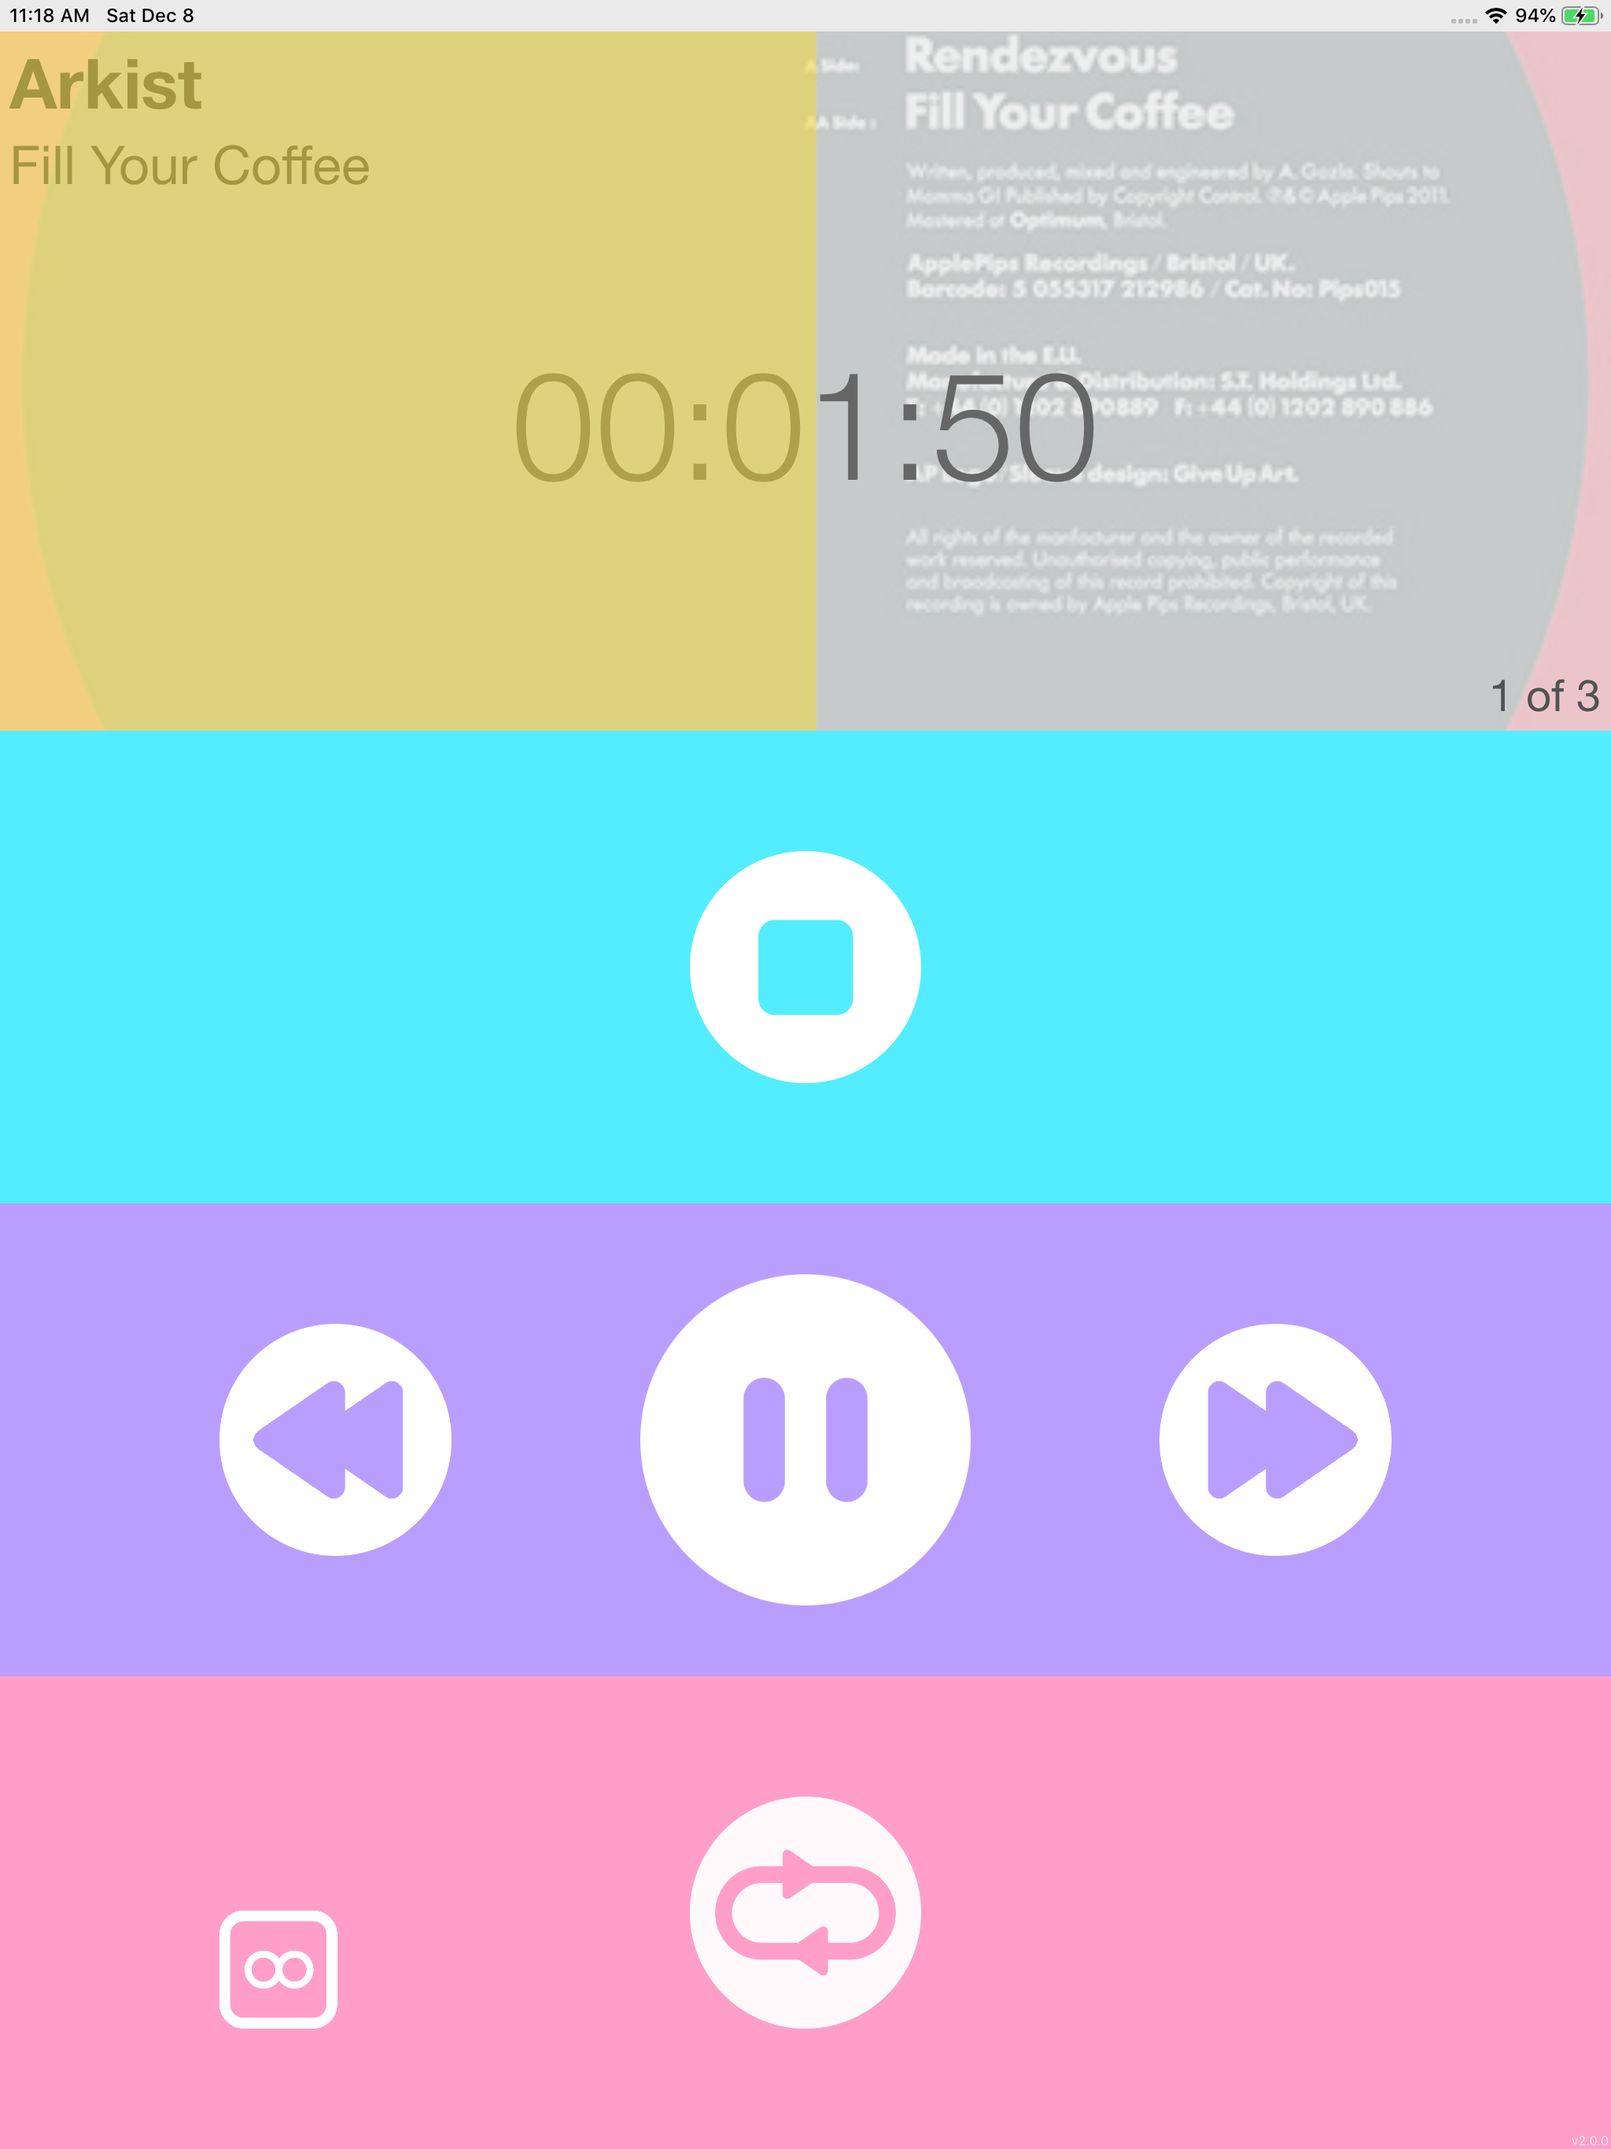
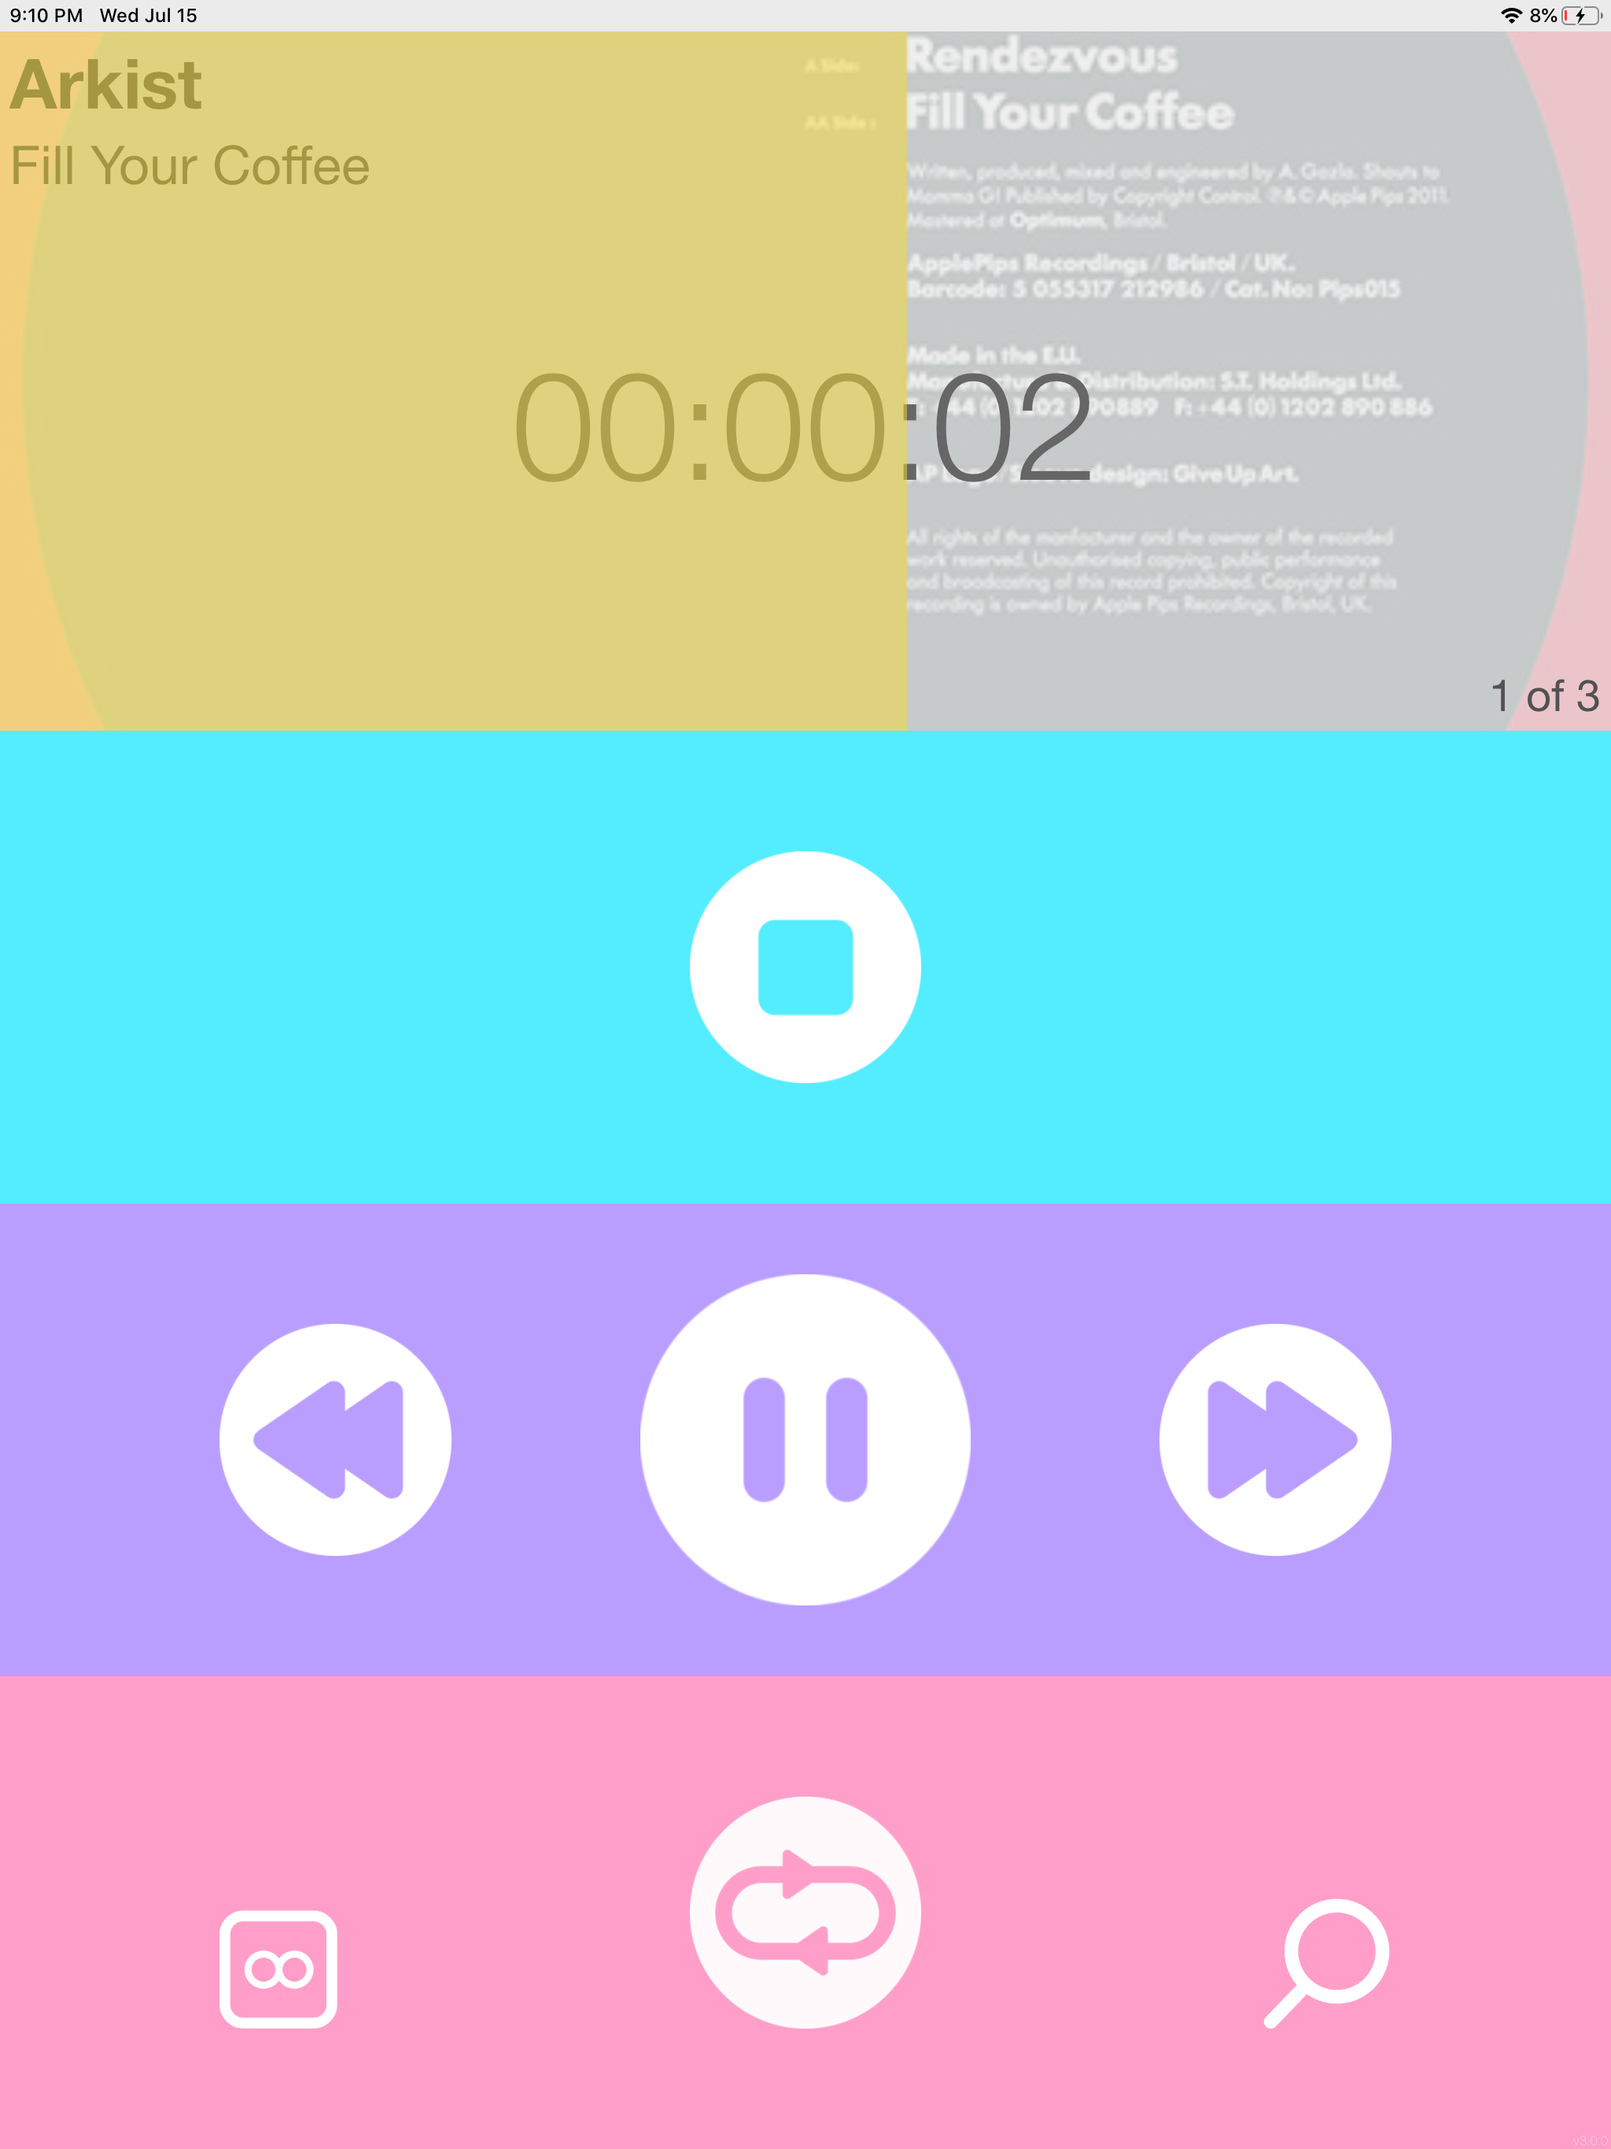
screenshots

diff --git a/screenshots/screenshots.html b/screenshots/screenshots.html
@@ -8,8 +8,26 @@
         font-family: "HelveticaNeue-Light", "Helvetica Neue Light", "Helvetica Neue", Helvetica, Arial, "Lucida Grande", sans-serif;
         font-weight: 300;
       }
-      .language {
-
+      #sortMenu {
+        overflow: hidden;
+        border: 1px solid #ccc;
+        background-color: #f1f1f1;
+        display: none;
+      }
+      #sortMenu button {
+        background-color: inherit;
+        float: left;
+        border: none;
+        outline: none;
+        cursor: pointer;
+        padding: 14px 16px;
+        font-size: 17px;
+      }
+      #sortMenu button:hover {
+        background-color: #ddd;
+      }
+      #sortMenu button.active {
+        background-color: #ccc;
       }
       .deviceName {
         display: block;
@@ -21,6 +39,14 @@
         cursor: pointer;
         border: 1px #EEE solid;
         z-index: 0;
+      }
+      .caption {
+        font-size: 24px;
+        padding-bottom: 24px;
+        padding-top: 30px;
+      }
+      h1, h2 {
+        font-weight: bold;
       }
       th {
         text-align: left;
@@ -65,58 +91,122 @@
     </style>
   </head>
   <body>
-    <h1 id="en-UK" class="language">en-UK</h1>
-    <hr>
-    <table>
-      <tr>
-        <th colspan="1">
-          <a id="en-UK-iPad Pro (12.9-inch) (2nd generation)" class="deviceName" href="#en-UK-iPad Pro (12.9-inch) (2nd generation)">iPad Pro (12.9-inch) (2nd generation)</a>
-        </th>
-      </tr>
-      <tr>
-        <td>
-          <a href="./en-UK/iPad Pro (12.9-inch) (2nd generation)-Main.png" target="_blank" class="screenshotLink">
-            <img class="screenshot" src="./en-UK/iPad Pro (12.9-inch) (2nd generation)-Main.png" style="width: 100%;" alt="en-UK iPad Pro (12.9-inch) (2nd generation)" data-counter="1">
-          </a>
-        </td>
-      </tr>
-      <tr>
-        <th colspan="1">
-          <a id="en-UK-iPad Pro (12.9-inch)" class="deviceName" href="#en-UK-iPad Pro (12.9-inch)">iPad Pro (12.9-inch)</a>
-        </th>
-      </tr>
-      <tr>
-        <td>
-          <a href="./en-UK/iPad Pro (12.9-inch) (3rd generation)-Main.png" target="_blank" class="screenshotLink">
-            <img class="screenshot" src="./en-UK/iPad Pro (12.9-inch) (3rd generation)-Main.png" style="width: 100%;" alt="en-UK iPad Pro (12.9-inch)" data-counter="2">
-          </a>
-        </td>
-      </tr>
-      <tr>
-        <th colspan="1">
-          <a id="en-UK-iPhone 7 Plus (5.5-Inch)" class="deviceName" href="#en-UK-iPhone 7 Plus (5.5-Inch)">iPhone 7 Plus (5.5-Inch)</a>
-        </th>
-      </tr>
-      <tr>
-        <td>
-          <a href="./en-UK/iPhone 7 Plus-Main.png" target="_blank" class="screenshotLink">
-            <img class="screenshot" src="./en-UK/iPhone 7 Plus-Main.png" style="width: 100%;" alt="en-UK iPhone 7 Plus (5.5-Inch)" data-counter="3">
-          </a>
-        </td>
-      </tr>
-      <tr>
-        <th colspan="1">
-          <a id="en-UK-iPhone XS Max" class="deviceName" href="#en-UK-iPhone XS Max">iPhone XS Max</a>
-        </th>
-      </tr>
-      <tr>
-        <td>
-          <a href="./en-UK/iPhone XS Max-Main.png" target="_blank" class="screenshotLink">
-            <img class="screenshot" src="./en-UK/iPhone XS Max-Main.png" style="width: 100%;" alt="en-UK iPhone XS Max" data-counter="4">
-          </a>
-        </td>
-      </tr>
-    </table>
+    <div id="sortMenu">
+      <button id="defaultTab" class="tabLink" onclick="openTab(event, 'byLanguage')">By Language</button>
+      <button class="tabLink" onclick="openTab(event, 'byScreen')">By Screen</button>
+    </div>
+    <div id="byLanguage" class="tabContent"><h1 class="tabTitle">By Language:</h1>
+      <h2 id="en-UK">en-UK</h2>
+      <hr>
+      <table>
+        <tr>
+          <th colspan="1">
+            <a id="en-UK-iPad Pro (12.9-inch) (2nd generation)" class="deviceName" href="#en-UK-iPad Pro (12.9-inch) (2nd generation)">iPad Pro (12.9-inch) (2nd generation)</a>
+          </th>
+        </tr>
+        <tr>
+          <td>
+            <a href="./en-UK/iPad Pro (12.9-inch) (2nd generation)-Main.png" target="_blank" class="screenshotLink">
+              <img class="screenshot" src="./en-UK/iPad Pro (12.9-inch) (2nd generation)-Main.png" style="width: 100%;" alt="en-UK iPad Pro (12.9-inch) (2nd generation)" data-tab="1" data-counter="1">
+            </a>
+          </td>
+        </tr>
+        <tr>
+          <th colspan="1">
+            <a id="en-UK-iPad Pro (12.9-inch) (3rd generation)" class="deviceName" href="#en-UK-iPad Pro (12.9-inch) (3rd generation)">iPad Pro (12.9-inch) (3rd generation)</a>
+          </th>
+        </tr>
+        <tr>
+          <td>
+            <a href="./en-UK/iPad Pro (12.9-inch) (3rd generation)-Main.png" target="_blank" class="screenshotLink">
+              <img class="screenshot" src="./en-UK/iPad Pro (12.9-inch) (3rd generation)-Main.png" style="width: 100%;" alt="en-UK iPad Pro (12.9-inch) (3rd generation)" data-tab="1" data-counter="2">
+            </a>
+          </td>
+        </tr>
+        <tr>
+          <th colspan="1">
+            <a id="en-UK-iPhone 11 Pro Max" class="deviceName" href="#en-UK-iPhone 11 Pro Max">iPhone 11 Pro Max</a>
+          </th>
+        </tr>
+        <tr>
+          <td>
+            <a href="./en-UK/iPhone 11 Pro Max-Main.png" target="_blank" class="screenshotLink">
+              <img class="screenshot" src="./en-UK/iPhone 11 Pro Max-Main.png" style="width: 100%;" alt="en-UK iPhone 11 Pro Max" data-tab="1" data-counter="3">
+            </a>
+          </td>
+        </tr>
+        <tr>
+          <th colspan="1">
+            <a id="en-UK-iPhone 8 Plus" class="deviceName" href="#en-UK-iPhone 8 Plus">iPhone 8 Plus</a>
+          </th>
+        </tr>
+        <tr>
+          <td>
+            <a href="./en-UK/iPhone 8 Plus-Main.png" target="_blank" class="screenshotLink">
+              <img class="screenshot" src="./en-UK/iPhone 8 Plus-Main.png" style="width: 100%;" alt="en-UK iPhone 8 Plus" data-tab="1" data-counter="4">
+            </a>
+          </td>
+        </tr>
+      </table>
+    </div>
+    <div id="byScreen" class="tabContent"><h1 class="tabTitle">By Screen:</h1>
+      <h2 id="Main" class="screen">Main</h2>
+      <hr>
+      <table>
+        <tr>
+          <th colspan="1">
+            <a id="Main-iPad Pro (12.9-inch) (2nd generation)" class="deviceName" href="#Main-iPad Pro (12.9-inch) (2nd generation)">iPad Pro (12.9-inch) (2nd generation)</a>
+          </th>
+        </tr>
+        <tr>
+          <td>
+            <a href="./en-UK/iPad Pro (12.9-inch) (2nd generation)-Main.png" target="_blank" class="screenshotLink">
+              <img class="screenshot" src="./en-UK/iPad Pro (12.9-inch) (2nd generation)-Main.png" style="width: 100%;" alt="en-UK iPad Pro (12.9-inch) (2nd generation)" data-tab="2" data-counter="1">
+            </a>
+            <div class="caption">en-UK</div>
+          </td>
+        </tr>
+        <tr>
+          <th colspan="1">
+            <a id="Main-iPad Pro (12.9-inch) (3rd generation)" class="deviceName" href="#Main-iPad Pro (12.9-inch) (3rd generation)">iPad Pro (12.9-inch) (3rd generation)</a>
+          </th>
+        </tr>
+        <tr>
+          <td>
+            <a href="./en-UK/iPad Pro (12.9-inch) (3rd generation)-Main.png" target="_blank" class="screenshotLink">
+              <img class="screenshot" src="./en-UK/iPad Pro (12.9-inch) (3rd generation)-Main.png" style="width: 100%;" alt="en-UK iPad Pro (12.9-inch) (3rd generation)" data-tab="2" data-counter="2">
+            </a>
+            <div class="caption">en-UK</div>
+          </td>
+        </tr>
+        <tr>
+          <th colspan="1">
+            <a id="Main-iPhone 11 Pro Max" class="deviceName" href="#Main-iPhone 11 Pro Max">iPhone 11 Pro Max</a>
+          </th>
+        </tr>
+        <tr>
+          <td>
+            <a href="./en-UK/iPhone 11 Pro Max-Main.png" target="_blank" class="screenshotLink">
+              <img class="screenshot" src="./en-UK/iPhone 11 Pro Max-Main.png" style="width: 100%;" alt="en-UK iPhone 11 Pro Max" data-tab="2" data-counter="3">
+            </a>
+            <div class="caption">en-UK</div>
+          </td>
+        </tr>
+        <tr>
+          <th colspan="1">
+            <a id="Main-iPhone 8 Plus" class="deviceName" href="#Main-iPhone 8 Plus">iPhone 8 Plus</a>
+          </th>
+        </tr>
+        <tr>
+          <td>
+            <a href="./en-UK/iPhone 8 Plus-Main.png" target="_blank" class="screenshotLink">
+              <img class="screenshot" src="./en-UK/iPhone 8 Plus-Main.png" style="width: 100%;" alt="en-UK iPhone 8 Plus" data-tab="2" data-counter="4">
+            </a>
+            <div class="caption">en-UK</div>
+          </td>
+        </tr>
+      </table>
+    </div>
     <div id="overlay">
       <img id="imageDisplay" src="" alt="" />
       <div id="imageInfo"></div>
@@ -126,6 +216,48 @@
       var imageDisplay   = document.getElementById('imageDisplay');
       var imageInfo      = document.getElementById('imageInfo');
       var screenshotLink = document.getElementsByClassName('screenshotLink');
+
+      window.onload = setup();
+
+      function setup() {
+        var i, menu, tabTitles;
+
+        // Since JS is enabled, show sort menu and hide tab titles
+        menu = document.getElementById("sortMenu");
+        menu.style.display = "block";
+
+        tabTitles = document.getElementsByClassName("tabTitle");
+        for (i = 0; i < tabTitles.length; i++) {
+          tabTitles[i].style.display = "none";
+        }
+
+        doClick(document.getElementById("defaultTab"));
+      }
+
+      function getCurrentTab() {
+        var i, tabs;
+        tabs = document.getElementsByClassName("tabContent");
+        for (i = 0; i < tabs.length; i++) {
+          if (tabs[i].style.display != "none") {
+            return i + 1;
+          }
+        }
+        return 1; // fallback
+      }
+
+      function openTab(evt, tabName) {
+        var i, tabContent, tabLinks;
+        tabs = document.getElementsByClassName("tabContent");
+        for (i = 0; i < tabs.length; i++) {
+          tabs[i].style.display = "none";
+        }
+        tabLinks = document.getElementsByClassName("tabLink");
+        for (i = 0; i < tabLinks.length; i++) {
+          tabLinks[i].className = tabLinks[i].className.replace(" active", "");
+        }
+        document.getElementById(tabName).style.display = "block";
+        evt.currentTarget.className += " active";
+      }
 
       function doClick(el) {
         if (document.createEvent) {
@@ -152,6 +284,7 @@
           tmpImg.src = img.src;
           imageDisplay.style.height     = 'auto';
           imageDisplay.style.width     = 'auto';
+          imageDisplay.style.paddingTop = 0;
           if (window.innerHeight < tmpImg.height) {
             imageDisplay.style.height = document.documentElement.clientHeight+'px';
           } else if (window.innerWidth < tmpImg.width) {
@@ -177,12 +310,13 @@
 
         overlay.style.display = "none";
 
+        img_tab = parseInt(getCurrentTab());
         img_counter = parseInt(e.target.dataset.counter) + 1;
         try {
-          link = document.body.querySelector('img[data-counter="'+img_counter+'"]').parentNode;
+          link = document.body.querySelector('img[data-tab="'+img_tab+'"][data-counter="'+img_counter+'"]').parentNode;
         } catch (e) {
           try {
-            link = document.body.querySelector('img[data-counter="0"]').parentNode;
+            link = document.body.querySelector('img[data-tab="'+img_tab+'"][data-counter="0"]').parentNode;
           } catch (e) {
             return false;
           }

diff --git a/EasyMusicPlayerSnapshot/Snapshots.swift b/EasyMusicPlayerSnapshot/Snapshots.swift
@@ -5,7 +5,10 @@ final class Snapshots: XCTestCase {
 
     override func setUp() {
         super.setUp()
-
+        addUIInterruptionMonitor(withDescription: "permissions") { alert -> Bool in
+            alert.buttons["OK"].tap()
+            return true
+        }
         app = XCUIApplication()
         setupSnapshot(app)
         continueAfterFailure = false
@@ -19,11 +22,25 @@ final class Snapshots: XCTestCase {
     func testMainSnapshot() {
         app.launch()
         app.buttons["PlayButton"].tap()
-        app.otherElements
-            .containing(.staticText, identifier:"v2.0.0")
-            .children(matching: .other).element(boundBy: 1)
+        if UIDevice.current.userInterfaceIdiom == .pad {
+            app.children(matching: .window).element(boundBy: 0)
             .children(matching: .other).element
-            .tap()
+            .children(matching: .other).element
+            .children(matching: .other).element
+            .children(matching: .other).element
+            .children(matching: .other)
+            .element(boundBy: 1)
+            .children(matching: .other).element.tap()
+        } else {
+            app.children(matching: .window)
+            .element(boundBy: 0)
+            .children(matching: .other).element
+            .children(matching: .other).element
+            .children(matching: .other).element
+            .children(matching: .other)
+            .element(boundBy: 1)
+            .children(matching: .other).element.tap()
+        }
         snapshot("Main")
     }
 }

diff --git a/CHANGELOG.md b/CHANGELOG.md
@@ -1,6 +1,6 @@
 # Changelog
 
-## 3.0.0 (TBC)
+## 3.0.0 (15/07/2020)
     added silence detection
     added simple search
     fix: interruption handling
